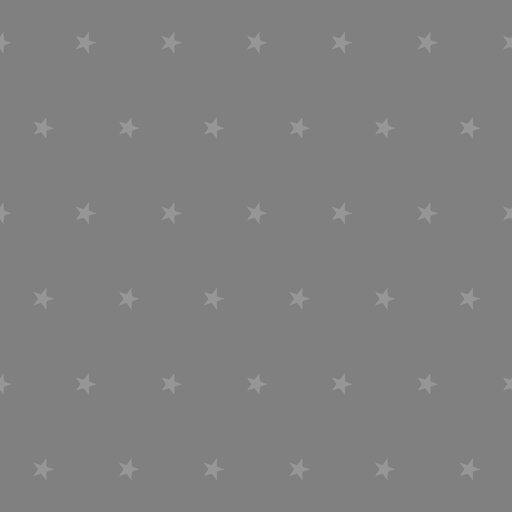
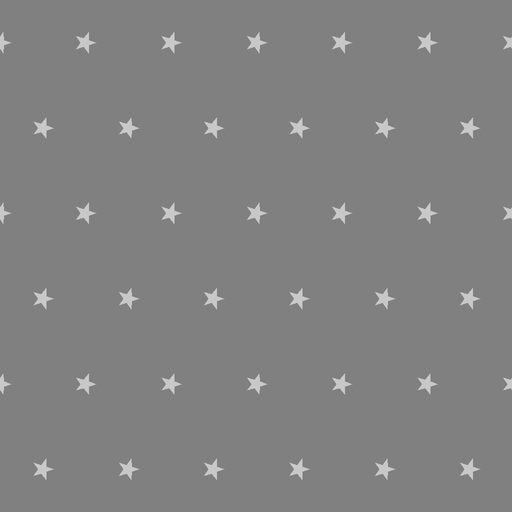
House finish options: cornice close-ups away from the chimney and the cut-outs, a soft cove without ink lines, a starry ceiling paper that shows, Theo's room shot past his wardrobe

diff --git a/Assets/JamKit/Templates/VisitingHours/Dream/Editor/DreamCaptureVariants.cs b/Assets/JamKit/Templates/VisitingHours/Dream/Editor/DreamCaptureVariants.cs
@@ -53,7 +53,7 @@ namespace JamKit.DreamEscape.EditorTools
         {
             new Spot("living", new Vector3(3.2f, F + Eye, 72.9f), new Vector3(7.4f, F + 1.0f, 76.4f)),
             new Spot("hall", new Vector3(-5.0f, F + Eye, 79.4f), new Vector3(8f, F + 1.2f, 79.3f)),
-            new Spot("theos-room", new Vector3(3.4f, F + Eye, 81.1f), new Vector3(7.0f, F + 0.8f, 83.5f)),
+            new Spot("theos-room", new Vector3(3.4f, F + Eye, 83.4f), new Vector3(7.6f, F + 1.2f, 82.6f)),
         };
 
         // Looking a little up, so the ceiling shows.
@@ -61,13 +61,13 @@ namespace JamKit.DreamEscape.EditorTools
         {
             new Spot("living", new Vector3(3.0f, F + Eye, 72.8f), new Vector3(7.0f, F + 2.0f, 76.6f)),
             new Spot("hall", new Vector3(-5.0f, F + Eye, 79.4f), new Vector3(8f, F + 1.75f, 79.3f)),
-            new Spot("theos-room", new Vector3(3.4f, F + Eye, 81.1f), new Vector3(7.0f, F + 1.8f, 83.5f)),
+            new Spot("theos-room", new Vector3(3.4f, F + Eye, 83.4f), new Vector3(7.6f, F + 1.9f, 82.6f)),
         };
 
         static List<Spot> CorniceSpots() => new List<Spot>
         {
-            new Spot("living-corner", new Vector3(5.2f, F + Eye, 74.4f), new Vector3(7.9f, F + 2.8f, 77.9f)),
-            new Spot("kitchen-corner", new Vector3(-3.0f, F + Eye, 74.8f), new Vector3(-7f, F + 2.6f, 72.1f)),
+            new Spot("living-corner", new Vector3(5.6f, F + Eye, 75.8f), new Vector3(2.9f, F + 2.8f, 72.1f)),
+            new Spot("kitchen-corner", new Vector3(-3.6f, F + Eye, 76.6f), new Vector3(-6.9f, F + 2.6f, 72.1f)),
         };
 
         static List<Spot> AtticSpots() => new List<Spot>
@@ -235,7 +235,7 @@ namespace JamKit.DreamEscape.EditorTools
                     m.SetTexture("_MainTex", tex);
                     m.SetFloat("_TexScale", tin ? 0.6f : 0.55f);
                     m.SetFloat("_TexMean", 0.5f);
-                    m.SetFloat("_TexStrength", tex != null ? (tin ? 0.7f : 0.45f) : 0f);
+                    m.SetFloat("_TexStrength", tex != null ? (tin ? 0.7f : 1f) : 0f);
                     return m;
                 });
                 return;
@@ -309,6 +309,8 @@ namespace JamKit.DreamEscape.EditorTools
             _variantRoot = null;
             if (option == "current") return;
             var trim = Trim();
+            var cove = Coloured(trim, new Color(0.99f, 0.97f, 0.94f));
+            cove.SetFloat("_OutlineWidth", 0f);
             foreach (var r in UnityEngine.Object.FindObjectsByType<Renderer>(FindObjectsSortMode.None))
             {
                 if (!r.name.StartsWith("Cornice (")) continue;
@@ -325,9 +327,11 @@ namespace JamKit.DreamEscape.EditorTools
                 switch (option)
                 {
                     case "cove":
-                        // A big rounded cove filling the corner, a small fillet under it.
-                        Part(PrimitiveType.Cylinder, At(0f, top, along), new Vector3(0.26f, len * 0.5f, 0.26f), trim, alongZ ? Quaternion.Euler(90f, 0f, 0f) : Quaternion.Euler(0f, 0f, 90f));
-                        Part(PrimitiveType.Cube, At(0.012f, top - 0.145f, along), Size(len, 0.03f, 0.024f), trim);
+                        // A big rounded cove filling the corner (no ink line on its curve, so it reads as one soft
+                        // surface), a fillet along each edge.
+                        Part(PrimitiveType.Cylinder, At(0f, top, along), new Vector3(0.3f, len * 0.5f, 0.3f), cove, alongZ ? Quaternion.Euler(90f, 0f, 0f) : Quaternion.Euler(0f, 0f, 90f));
+                        Part(PrimitiveType.Cube, At(0.012f, top - 0.165f, along), Size(len, 0.03f, 0.024f), trim);
+                        Part(PrimitiveType.Cube, At(0.165f, top - 0.012f, along), Size(len, 0.024f, 0.03f), trim);
                         break;
                     case "stepped":
                         foreach (var (proj, h) in new[] { (0.035f, 0.22f), (0.075f, 0.13f), (0.115f, 0.06f) })

diff --git a/Assets/JamKit/Templates/VisitingHours/Dream/Editor/DreamCapture.cs b/Assets/JamKit/Templates/VisitingHours/Dream/Editor/DreamCapture.cs
@@ -71,7 +71,7 @@ namespace JamKit.DreamEscape.EditorTools
                 new Spot("house-09c-hatch-from-below", new Vector3(0.8f, F + Eye, 78.7f), new Vector3(-0.7f, F + 2.7f, 79.4f)),
                 new Spot("house-10-parents-room", new Vector3(-2.0f, F + Eye, 81.2f), new Vector3(-5.2f, F + 0.8f, 83.4f)),
                 new Spot("house-10b-bath", new Vector3(-0.8f, F + Eye, 81.2f), new Vector3(0.9f, F + 0.8f, 83.2f)),
-                new Spot("house-11-theos-room", new Vector3(3.4f, F + Eye, 81.1f), new Vector3(7.0f, F + 0.8f, 83.5f)),
+                new Spot("house-11-theos-room", new Vector3(3.4f, F + Eye, 83.4f), new Vector3(7.6f, F + 1.2f, 82.6f)),
                 new Spot("house-11b-theos-desk-bookcase", new Vector3(5.6f, F + Eye, 82.6f), new Vector3(7.7f, F + 1.7f, 82.0f)),
                 new Spot("house-11c-attic-stairs-door", new Vector3(5.2f, F + Eye, 82.2f), new Vector3(2.9f, F + 1.0f, 83.5f)),
                 new Spot("house-12-attic-stairs-up", new Vector3(2.2f, F + Eye, 83.8f), new Vector3(2.2f, F + 3.6f, 80.6f)),

diff --git a/tools/art/vh_house_patterns.py b/tools/art/vh_house_patterns.py
@@ -212,7 +212,7 @@ def ceiling_paper():
                         r = 22 if k % 2 == 0 else 9
                         a = k * math.pi / 5 + rnd.random() * 0.0
                         pts.append((ox + x + math.cos(a) * r, oy + y + math.sin(a) * r))
-                    d.polygon(pts, fill=150)
+                    d.polygon(pts, fill=200)
     return img.resize((OUT, OUT), Image.LANCZOS)
 
 
